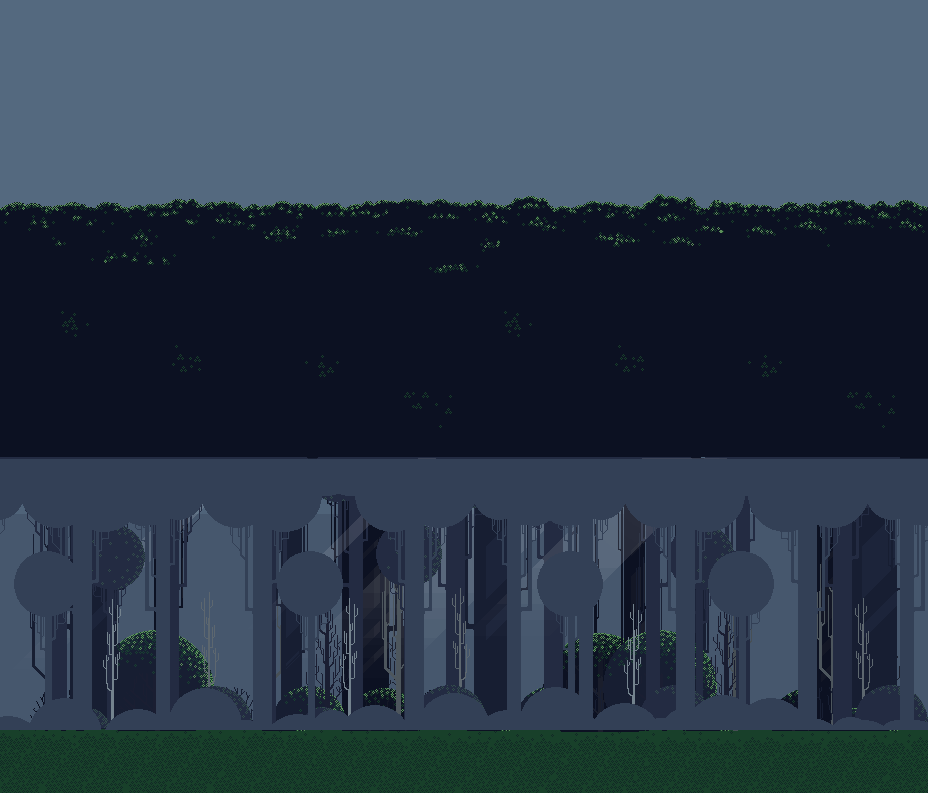
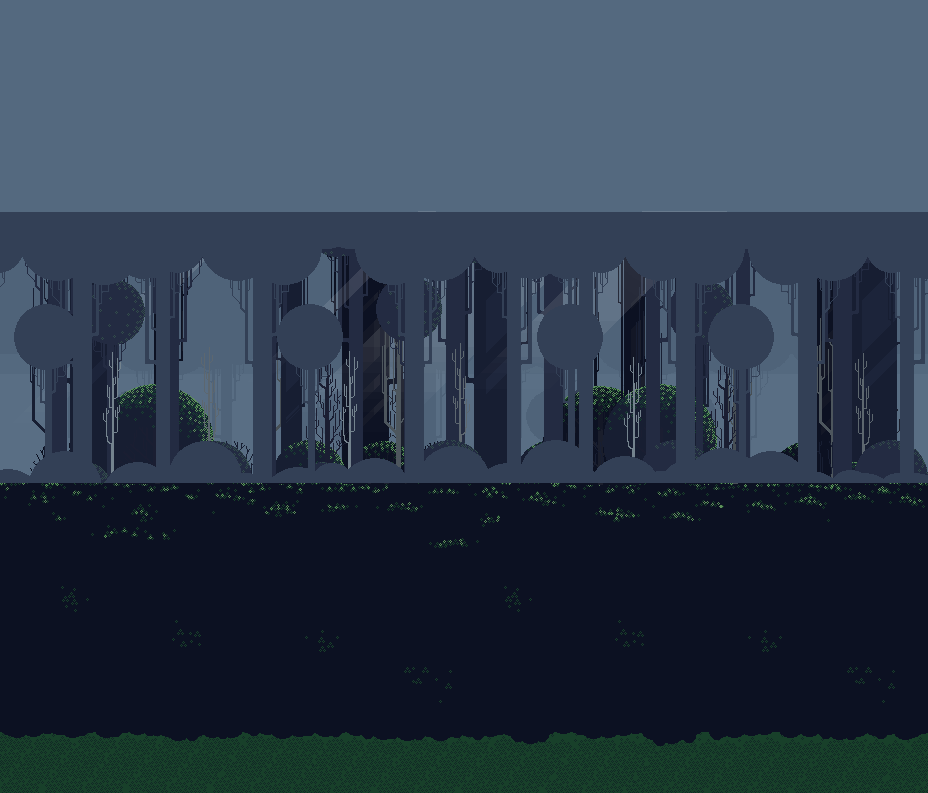
final dev

diff --git a/ui/menu.py b/ui/menu.py
@@ -1,8 +1,10 @@
 import pygame
 
+from core.settings import WIDTH, HEIGHT
+
 
 class Menu:
-    def __init__(self, screen, start_game_callback):
+    def __init__(self, screen, start_game_callback, settings_callback=False):
         """
         Инициализация меню.
         :param screen: Экран для отрисовки меню.
@@ -26,6 +28,7 @@ class Menu:
         self.running_menu = True  # Состояние работы меню
         self.settings = None
         self.start_game_callback = start_game_callback
+        self.settings_callback = settings_callback # передаваемый параметр из меню настроек,
 
     def render_text(self, text, color):
         """Создаёт текстовую поверхность."""
@@ -44,12 +47,15 @@ class Menu:
                         self.options[self.selected_index]["action"]()
             elif event.type == pygame.MOUSEBUTTONDOWN:
                 if event.button == 1:  # ЛКМ
-                    mouse_pos = pygame.mouse.get_pos()
-                    for index, option in enumerate(self.options):
-                        label_surface = self.render_text(option["label"], self.base_color)
-                        label_rect = label_surface.get_rect(topleft=(self.start_x, self.start_y + index * self.spacing))
-                        if label_rect.collidepoint(mouse_pos) and option["enabled"]:
-                            option["action"]()
+                    if not self.settings_callback:
+                        mouse_pos = pygame.mouse.get_pos()
+                        for index, option in enumerate(self.options):
+                            label_surface = self.render_text(option["label"], self.base_color)
+                            label_rect = label_surface.get_rect(topleft=(self.start_x, self.start_y + index * self.spacing))
+                            if label_rect.collidepoint(mouse_pos) and option["enabled"]:
+                                option["action"]()
+                    else:
+                        self.settings_callback = False
             elif event.type == pygame.MOUSEWHEEL:  # Прокрутка колесика мыши
                 if event.y > 0:  # Прокрутка вверх
                     self.selected_index = (self.selected_index - 1) % len(self.options)
@@ -66,7 +72,9 @@ class Menu:
 
     def draw(self):
         """Отрисовывает меню."""
-        self.screen.fill((0, 0, 0))  # Фон
+        background = pygame.image.load('assets/images/backgrounds/forest/background.png')
+        background = pygame.transform.scale(background, (WIDTH, HEIGHT))
+        self.screen.blit(background, (0, 0))  # Фон
         for index, option in enumerate(self.options):
             # Цвет текста
             if not option["enabled"]:

diff --git a/ui/settings.py b/ui/settings.py
@@ -170,12 +170,13 @@ class SettingsPage:
     def run(self):
         """Запуск настроек."""
         clock = pygame.time.Clock()
-        while True:
+        self.running_menu = True
+        while self.running_menu:
             events = pygame.event.get()
             for event in events:
                 if event.type == pygame.QUIT:
                     pygame.quit()
-                    sys.exit()
+                    self.running_menu = False
             self.handle_input(events)
             self.screen.fill((0, 0, 0))  # Очищаем экран
             self.draw_tabs()
@@ -186,9 +187,10 @@ class SettingsPage:
     def open_menu(self):
         """Открывает экран настроек."""
         from ui.menu import Menu
-        self.menu = Menu(self.screen, "idk what's the format for this")  # Создаем объект настроек
+        self.menu = Menu(self.screen, "idk what's the format for this", True)  # Создаем объект настроек
            # Запускаем экран настроек
         self.menu.draw()
+        self.running_menu = False
 
 
 

diff --git a/entities/player.py b/entities/player.py
@@ -72,6 +72,13 @@ class Player:
             self.facing = 'r'
         else:
             self.velocity_x = 0
+        if keys[pygame.K_w]:
+            if pygame.time.get_ticks() > self.last_jump_tick + 1000:
+                self.can_dash = True
+                if self.can_dash:
+                    self.last_jump_tick = pygame.time.get_ticks()
+                    self.can_jump = False
+                    self.velocity_y = -JUMP_POWER
         if keys[pygame.K_LSHIFT] and (keys[pygame.K_d] or keys[pygame.K_a]):
             if pygame.time.get_ticks() > self.last_dash_tick + 1500:
                 self.can_dash = True
@@ -211,7 +218,6 @@ class Player:
         Отрисовка игрока.
         """
         dt = 1 / fps
-        print(self.on_ground)
         self.timer += dt
         self.screen = screen
         self.fps = fps

diff --git a/main.py b/main.py
@@ -108,7 +108,6 @@ def main():
                 game.player.set_coords(WIDTH // 2, HEIGHT // 2)
                 levelparse = LevelParser.parse_level(levels[1])
                 all_sprites = levelparse['all_sprites']
-                collideables = [all_sprites]
             else:
                 game_going = False
                 pygame.display.flip()
